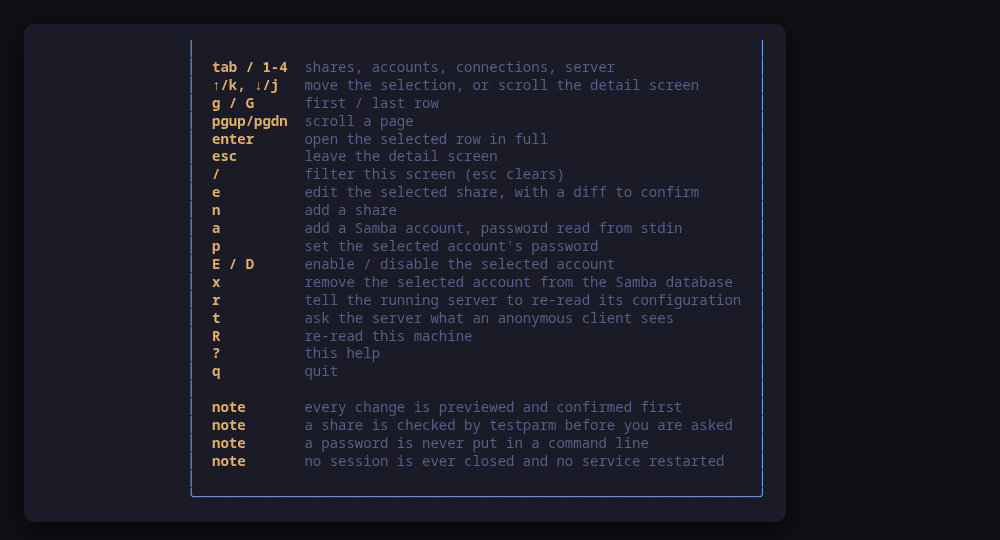
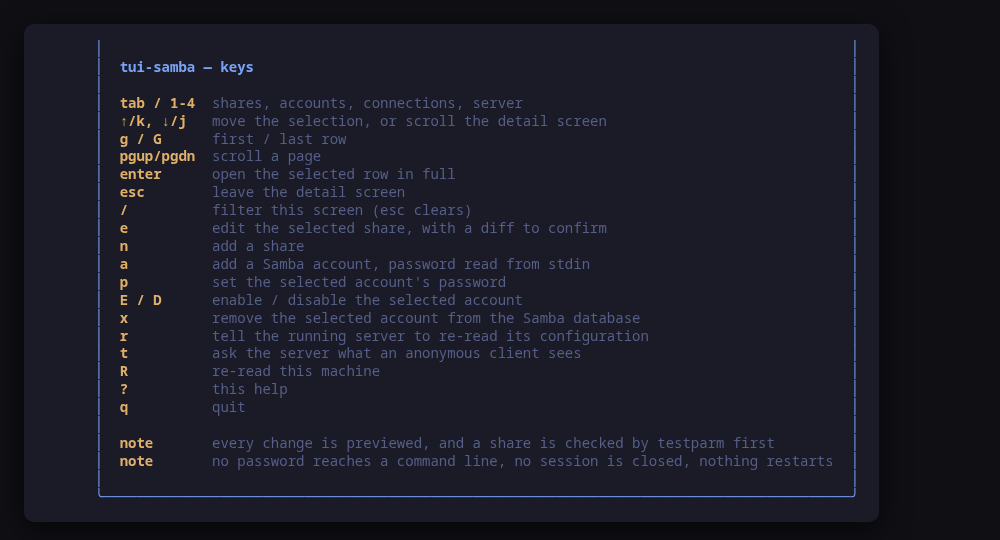
Fit the help panel on a 26 row terminal
Four notes and a separator pushed the panel past the height of the
frame the screenshots are rendered in, and a panel taller than the
terminal is clipped at the top — which is where its title is. The two
notes say the same four things in two lines.

Claude-Session: https://claude.ai/code/session_0149Bf2QcorehfhYNNg27h5j

diff --git a/cmd/tui-samba/view.go b/cmd/tui-samba/view.go
@@ -746,9 +746,7 @@ func helpKeys() []ui.KeyHint {
 		{Key: "?", Desc: "this help"},
 		{Key: "q", Desc: "quit"},
 		{Key: "", Desc: ""},
-		{Key: "note", Desc: "every change is previewed and confirmed first"},
-		{Key: "note", Desc: "a share is checked by testparm before you are asked"},
-		{Key: "note", Desc: "a password is never put in a command line"},
-		{Key: "note", Desc: "no session is ever closed and no service restarted"},
+		{Key: "note", Desc: "every change is previewed, and a share is checked by testparm first"},
+		{Key: "note", Desc: "no password reaches a command line, no session is closed, nothing restarts"},
 	}
 }
